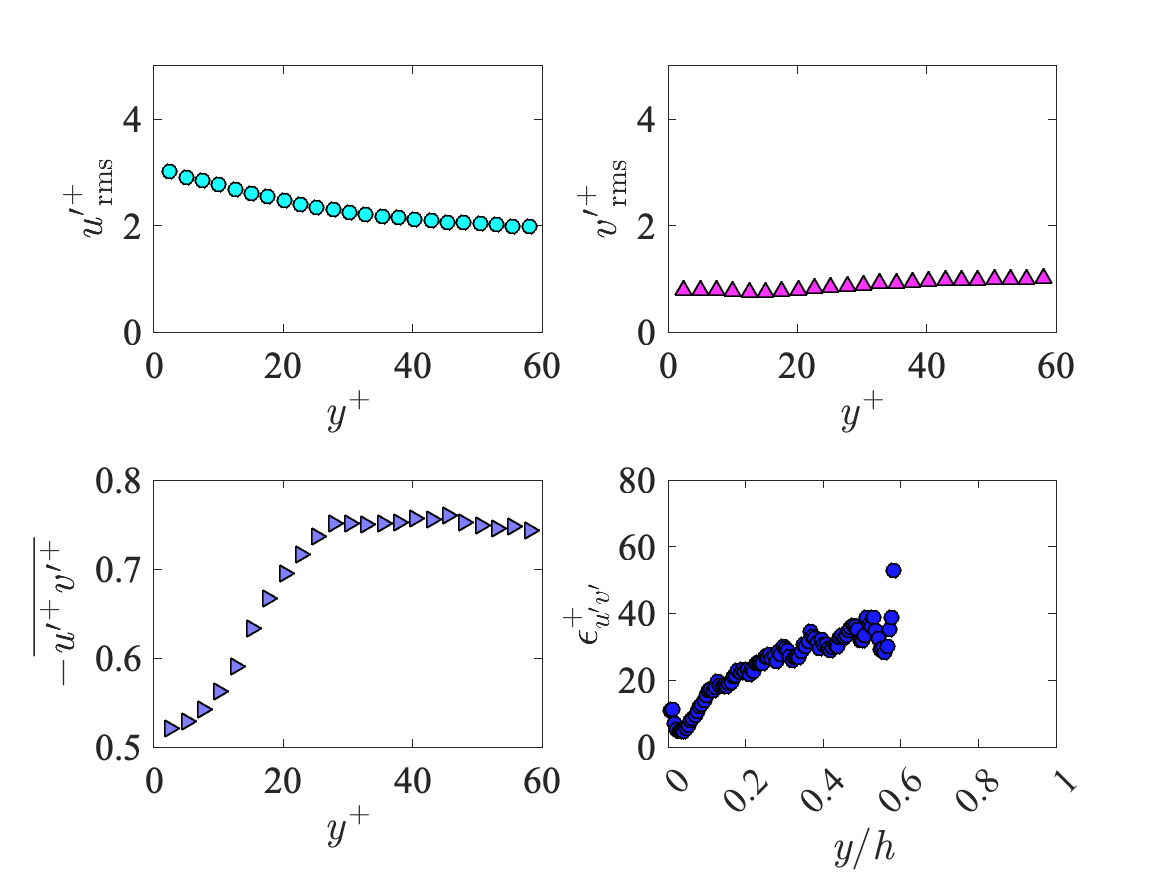
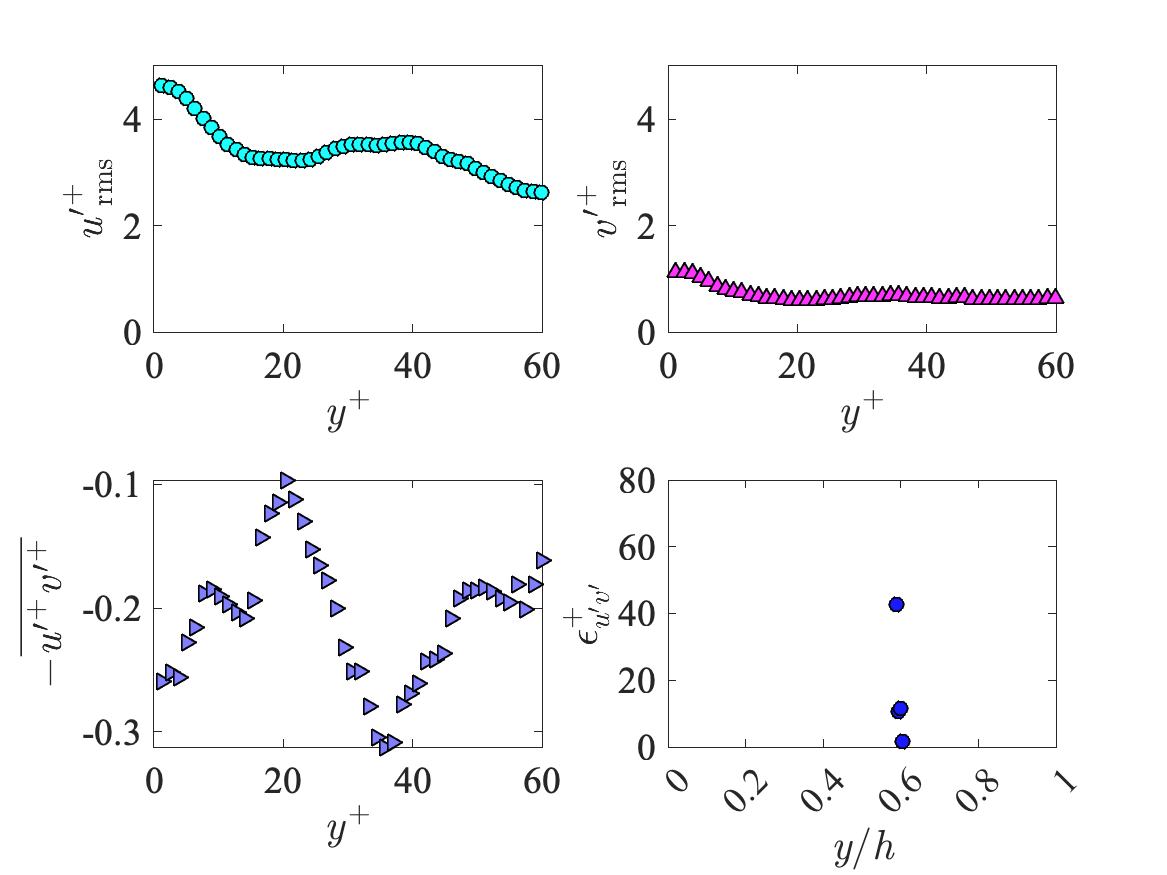
Restrssを無次元化

diff --git a/itoi/PIV_assignment/comparision_In_elastozone.m b/itoi/PIV_assignment/comparision_In_elastozone.m
@@ -4,6 +4,8 @@ water_v_RMS_plot_Yaxis = load('session_waterRMS', 'water_v_RMS_plot_Yaxis').wate
 solution_plot_Xaxis = load('session_solutionRMS', 'solution_plot_Xaxis').solution_plot_Xaxis;
 solution_u_RMS_plot_Yaxis = load('session_solutionRMS', 'solution_u_RMS_plot_Yaxis').solution_u_RMS_plot_Yaxis;
 solution_v_RMS_plot_Yaxis = load('session_solutionRMS', 'solution_v_RMS_plot_Yaxis').solution_v_RMS_plot_Yaxis;
+water_Normalized_Re_stress = load('water_Normalized_Re_stress', 'water_Normalized_Re_stress').water_Normalized_Re_stress;
+solution_Normalized_Re_stress = load('solution_Normalized_Re_stress', 'solution_Normalized_Re_stress').solution_Normalized_Re_stress;
 
 % p_u_water = plot(water_plot_Xaxis,water_u_RMS_plot_Yaxis,'b^');
 % p_u_water.LineWidth = 1.2;
@@ -21,17 +23,32 @@ solution_v_RMS_plot_Yaxis = load('session_solutionRMS', 'solution_v_RMS_plot_Yax
 % legend({'water','80ppm'},'Location','northeast')
 % hold off 
 
-p_v_water = plot(water_plot_Xaxis,water_v_RMS_plot_Yaxis,'b^');
+% p_v_water = plot(water_plot_Xaxis,water_v_RMS_plot_Yaxis,'b^');
+% p_v_water.LineWidth = 1.2;
+% p_v_water.MarkerSize = 7;
+% p_v_water.MarkerFaceColor = 'blue';
+% box on;
+% xlabel('$${\it y^+}$$','FontSize',20,'Interpreter','latex');
+% ylabel('$${\it v^\prime}_{{\rm rms}}^+$$','FontSize',20,'Interpreter','latex');
+% xlim([0 60]); 
+% hold on
+% p_v_solution = plot(solution_plot_Xaxis,solution_v_RMS_plot_Yaxis,'r^');
+% p_v_solution.MarkerEdgeColor = 'red';
+% p_v_solution.MarkerFaceColor = 'red';
+% legend({'water','80ppm'},'Location','northeast')
+% hold off 
+
+% 無次元化されたレイノルズ剪断応力の粘弾性底層内の比較
+p_v_water = plot(water_plot_Xaxis,water_Normalized_Re_stress,'b^');
 p_v_water.LineWidth = 1.2;
 p_v_water.MarkerSize = 7;
 p_v_water.MarkerFaceColor = 'blue';
 box on;
 xlabel('$${\it y^+}$$','FontSize',20,'Interpreter','latex');
-ylabel('$${\it v^\prime}_{{\rm rms}}^+$$','FontSize',20,'Interpreter','latex');
+ylabel('$$-\overline{{\it u^\prime}^+{\it v^\prime}^+}$$','FontSize',20,'Interpreter','latex');
 xlim([0 60]); 
 hold on
-p_v_solution = plot(solution_plot_Xaxis,solution_v_RMS_plot_Yaxis,'r^');
+p_v_solution = plot(solution_plot_Xaxis,solution_Normalized_Re_stress,'r^');
 p_v_solution.MarkerEdgeColor = 'red';
-p_v_solution.MarkerFaceColor = 'red';
 legend({'water','80ppm'},'Location','northeast')
 hold off 

diff --git a/itoi/PIV_assignment/solution_algo.m b/itoi/PIV_assignment/solution_algo.m
@@ -355,10 +355,11 @@ p.MarkerEdgeColor = 'black';
 p.MarkerFaceColor = [0.5 0.5 1];
 box on;
 %axis equal tight;                                                 
-xticks([0:0.2:1]);
-yticks([-1:0.5:1.0]);
-xlim([0 1]);
-ylim([0 1]);
+% xticks([0:0.2:1]);
+% yticks([-1:0.5:1.0]);
+% xlim([0 1]);
+% ylim([0 1]);
+xlim([0 60]);
 set( gca, 'FontName','Times','FontSize',18); 
 ax = gca;
 ax.TickLength = [0.02 0.1];
